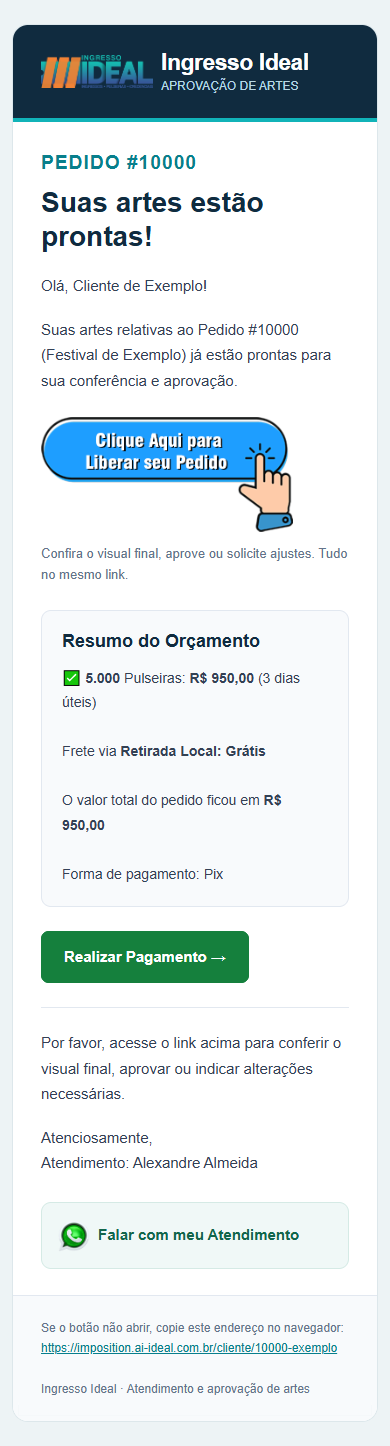
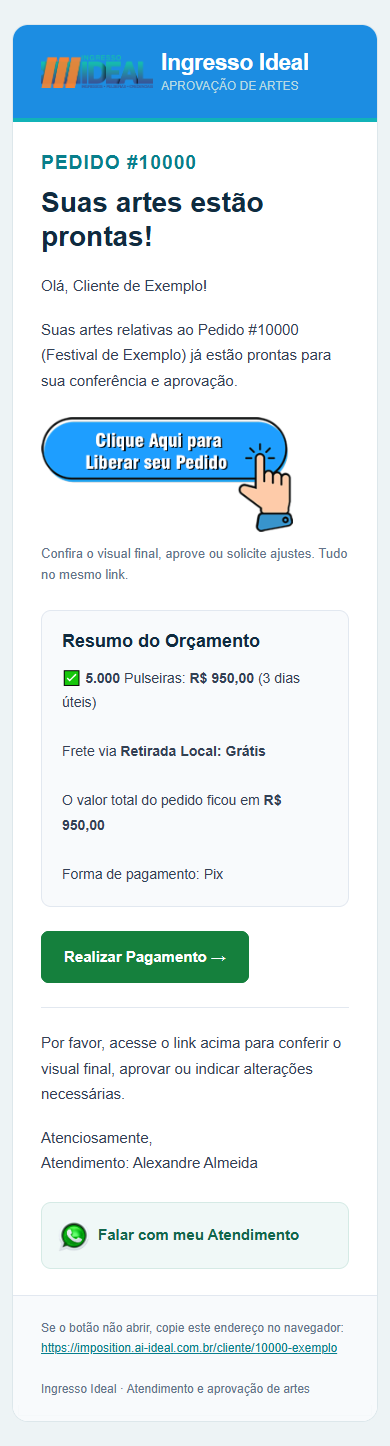
fix(email): aplicar cor solicitada ao cabecalho

Changed region(s): [[0.0308, 0.0, 0.9846, 0.0934]]

diff --git a/supabase/functions/_compartilhado/email_artes_layout.ts b/supabase/functions/_compartilhado/email_artes_layout.ts
@@ -56,7 +56,7 @@ export function layoutEmailArte(texto: string, portal: string, link?: string, nu
 <table role="presentation" width="100%" cellpadding="0" cellspacing="0" style="background:#edf3f5;"><tr><td align="center" style="padding:24px 12px;">
 <!--[if mso]><table role="presentation" width="600"><tr><td><![endif]-->
 <table role="presentation" width="100%" cellpadding="0" cellspacing="0" style="max-width:600px;background:#fff;border:1px solid #dde7eb;border-radius:16px;overflow:hidden;">
-<tr><td style="background:#102b3f;padding:24px 28px;border-bottom:4px solid #11b3b8;">
+<tr><td style="background:#1c8de2;padding:24px 28px;border-bottom:4px solid #11b3b8;">
 <table role="presentation" cellpadding="0" cellspacing="0"><tr><td width="120"><img src="${LOGO_EMPRESA}" width="112" alt="Ingresso Ideal" style="display:block;width:112px;height:auto;border:0;"></td><td style="color:#fff;font-family:Arial,Helvetica,sans-serif;"><strong style="font-size:23px;letter-spacing:-0.5px;">Ingresso Ideal</strong><br><span style="font-size:12px;color:#b7d9e4;">APROVAÇÃO DE ARTES</span></td></tr></table>
 </td></tr>
 <tr><td style="padding:30px 28px 8px;">

diff --git a/docs/registro-2026-09-09-email-tamanhos.md b/docs/registro-2026-09-09-email-tamanhos.md
@@ -1,10 +1,11 @@
-# Tamanhos no e-mail de aprovação — 09/09/2026
+# Tamanhos e cor do cabeçalho no e-mail de aprovação — 09/09/2026
 
 - Logo Ideal: largura de 56 para 112 px (+100%), altura proporcional; célula do
   cabeçalho ampliada para acomodar a imagem e manter o texto ao lado.
 - Imagem Clique aqui: largura máxima de 360 para 252 px (-30%), proporcional.
 - Número do pedido: fonte de 12 para 19,2 px (+60%).
-- Mantidos links, conteúdo, cabeçalho azul, pagamento verde e atendimento.
+- Fundo do cabeçalho atualizado para `#1c8de2`, conforme pedido adicional.
+- Mantidos links, conteúdo, pagamento verde e atendimento.
 
 Oito testes existentes de layout/MIME passaram. Prévias finais em 760 e 390 px
 conferidas no Chrome: logo 112 px, aprovação 252 px, fonte do pedido 19,2 px,
